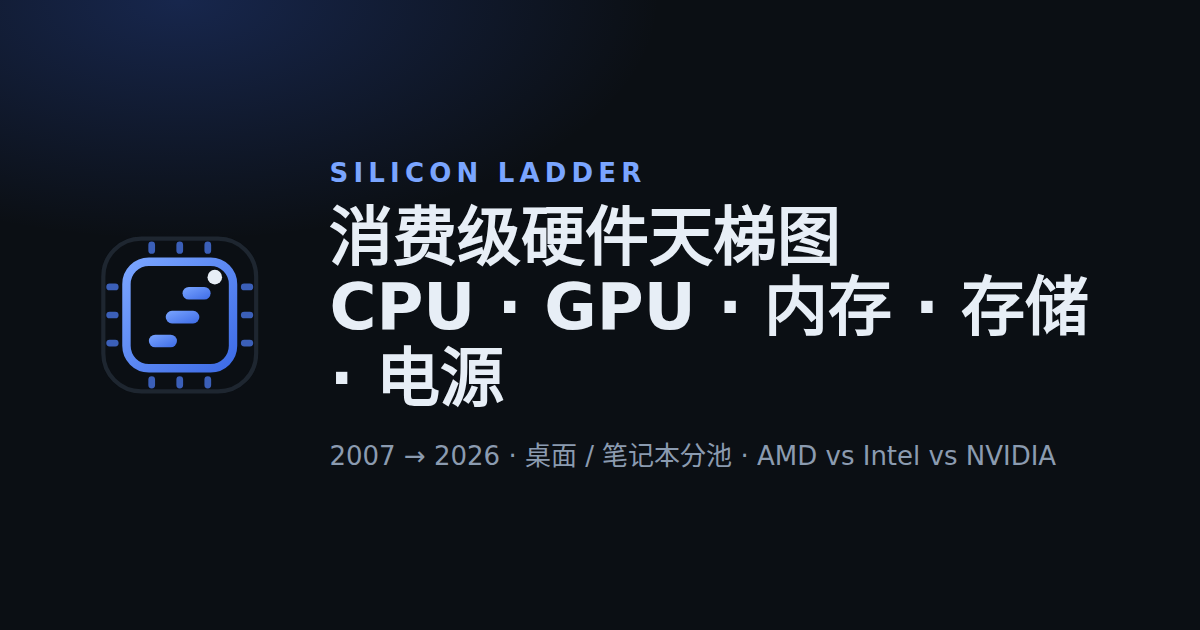
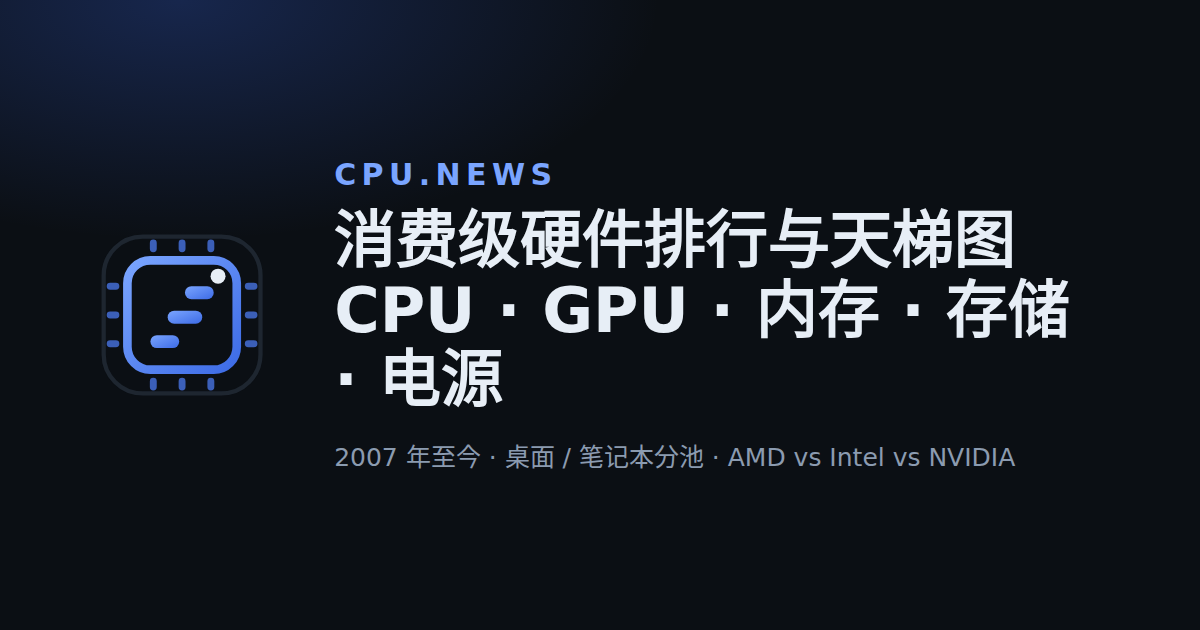
rebrand: 站点改名 CPU.News，域名 https://cpu.news——站名三语/标题/manifest/页脚版权、SITE_URL/canonical/hreflang/sitemap/JSON-LD、预渲染标题、OG 图站名与域名全部更新
Claude-Session: https://claude.ai/code/session_011fBAaapBiQcBJAXxYjUTg1

diff --git a/hardware-rank/src/i18n/ja.ts b/hardware-rank/src/i18n/ja.ts
@@ -1,6 +1,6 @@
 import type { Msg } from './index'
 export const ja: Msg = {
-  site: { name: 'Silicon Ladder', tagline: 'コンシューマー向けハードウェアランキング', sub: '性能ラダー · ランキング · 比較' },
+  site: { name: 'CPU.News', tagline: 'コンシューマー向けハードウェアランキング', sub: '性能ラダー · ランキング · 比較' },
   nav: { cpu: 'CPU', gpu: 'GPU', ram: 'メモリ', storage: 'ストレージ', psu: '電源', compare: '比較', guide: '購入ガイド', methodology: '評価方法', menu: 'メニュー' },
   theme: { light: 'ライト', dark: 'ダーク', toggle: 'テーマ切替' },
   cat: { cpu: 'CPU', gpu: 'GPU', ram: 'メモリ', storage: 'ストレージ', psu: '電源' },
@@ -76,12 +76,12 @@ export const ja: Msg = {
     h6: '免責事項', p6: '静的スナップショットです。スコアは相対順位用で購入助言ではありません。ノートとデスクトップは別プールで比較不可。同名GPUはTGPで20–40%差があります。',
   },
   lang: '言語',
-  footerx: { blog: '作者ブログ', about: 'Silicon Ladder はコンシューマー向けハードウェアの静的ランキング／ラダーサイトです。CPU・GPU・メモリ・ストレージ・電源をフォームファクタ別にプール分けし、AMD / Intel / NVIDIA を左右対照。スコアはすべて公開レビューに遡れます。', rankings: 'ランキング', ladders: 'ラダー', tools: 'ツールと説明', resources: 'リソース', desktop: 'デスクトップ', laptop: 'ノート', igpu: '内蔵GPU', github: 'GitHub ソース', data: 'データファイル (JSON)', sitemap: 'サイトマップ', dataVersion: 'データ版', copyright: '© {y} Silicon Ladder · ブランド名・商標は各社に帰属します', noAffiliation: 'AMD、Intel、NVIDIA、Apple 等のメーカーとは無関係。広告なし。ストアリンクは検索ページで、アフィリエイトタグを含む場合があります。' },
+  footerx: { blog: '作者ブログ', about: 'CPU.News はコンシューマー向けハードウェアの静的ランキング／ラダーサイトです。CPU・GPU・メモリ・ストレージ・電源をフォームファクタ別にプール分けし、AMD / Intel / NVIDIA を左右対照。スコアはすべて公開レビューに遡れます。', rankings: 'ランキング', ladders: 'ラダー', tools: 'ツールと説明', resources: 'リソース', desktop: 'デスクトップ', laptop: 'ノート', igpu: '内蔵GPU', github: 'GitHub ソース', data: 'データファイル (JSON)', sitemap: 'サイトマップ', dataVersion: 'データ版', copyright: '© {y} CPU.News · ブランド名・商標は各社に帰属します', noAffiliation: 'AMD、Intel、NVIDIA、Apple 等のメーカーとは無関係。広告なし。ストアリンクは検索ページで、アフィリエイトタグを含む場合があります。' },
   search: { title: 'サイト内検索', ph: 'モデル / ブランド 例: 9800X3D, RTX 5070, 990 PRO', hint: '↑↓ 選択 · Enter 開く · Esc 閉じる', empty: '該当する製品がありません', shortcut: '検索' },
   chips: { active: '選択中', clear: 'すべてクリア', era: '年代', tdp: 'TDP', watt: 'W数', q: 'キーワード' },
   rel: { rivals: '直接の競合', rivalsDesc: '同プール・同時期（±1年）・総合スコアが近い他ブランド', lineage: '同シリーズの前後世代', prev: '前世代', next: '次世代', vsFirst: '1列目との差', same: '同じ', diff: '異なる' },
   tags: { X3D: 'X3D', 游戏: 'ゲーム', 旗舰: 'フラッグシップ', 生产力: '生産性', 性价比: 'コスパ', 能效: '高効率', ARM: 'ARM', 核显: '内蔵GPU', 轻薄: '薄型', 全能本: '汎用ノート', 游戏本: 'ゲーミングノート', AM4: 'AM4', 经典: '定番', 历史: '旧世代', HEDT: 'HEDT', APU: 'APU', '4K': '4K', '2K': 'WQHD', 高TGP: '高TGP', 中TGP: '中TGP', 低TGP: '低TGP', '1080p': '1080p', PCIe5: 'PCIe 5.0', 国产: '中国製', 入门: '入門', SATA: 'SATA', NAS: 'NAS', CMR: 'CMR', QLC: 'QLC', 企业: 'エンタープライズ', SMR: 'SMR' },
-  exportImg: { btn: '画像を書き出し', busy: '生成中…', footer: '出典 silicon-ladder.vercel.app · 相対スコア、プール最高 100' },
+  exportImg: { btn: '画像を書き出し', busy: '生成中…', footer: '出典 cpu.news · 相対スコア、プール最高 100' },
   tech: { na: '未公開 / 該当なし', title: '技術仕様', note: 'アーキテクチャ情報は世代から導出、製品情報は公開仕様から整理。不明は空欄。', gArch: 'アーキテクチャとプロセス', gCores: 'コアとキャッシュ', gClock: 'クロックと電力', gMem: 'メモリと I/O', gIgpu: '内蔵GPU', gUnits: '演算ユニット', gMemG: 'メモリ', gPerf: '理論性能', gPrice: '発売価格',
     cores: 'コアマイクロアーキテクチャ', process: 'プロセス', design: 'チップ設計', die: 'ダイ構成', die_mm2: 'ダイ面積', transistors: 'トランジスタ数', l1: 'L1（コアあたり）', l2: 'L2（合計）', l3: 'L3', isa: '命令セット拡張', smt: 'マルチスレッド', base: 'ベースクロック', boost: 'ブーストクロック', tdp: 'TDP', pmax: '最大電力', memc: 'メモリコントローラ', memmax: '最大容量', pcie: 'PCIe', igpu: '内蔵GPU', igpuCu: '内蔵GPU ユニット', igpuClk: '内蔵GPU クロック', usd: '発売価格 (USD)',
     units: '演算ユニット', shaders: 'シェーダ', tmus: 'TMU', rops: 'ROP', rt: 'RT コア', tensor: 'AI / Tensor', rtGen: 'RT ユニット世代', aiGen: 'AI ユニット世代', baseClk: 'ベースクロック', boostClk: 'ブーストクロック', vram: 'VRAM', bus: 'バス幅', gbps: 'メモリ速度', bw: 'メモリ帯域', l2g: 'L2', ic: 'Infinity Cache', tbp: 'TBP / TGP', tflops: 'FP32 演算性能', perW: 'ワットあたり性能', density: 'トランジスタ密度', shPerUnit: 'ユニットあたりシェーダ' },

diff --git a/hardware-rank/src/i18n/en.ts b/hardware-rank/src/i18n/en.ts
@@ -1,6 +1,6 @@
 import type { Msg } from './index'
 export const en: Msg = {
-  site: { name: 'Silicon Ladder', tagline: 'Consumer Hardware Rankings', sub: 'Ladder · Rankings · Compare' },
+  site: { name: 'CPU.News', tagline: 'Consumer Hardware Rankings', sub: 'Ladder · Rankings · Compare' },
   nav: { cpu: 'CPU', gpu: 'GPU', ram: 'Memory', storage: 'Storage', psu: 'PSU', compare: 'Compare', guide: 'Buying Guide', methodology: 'Methodology', menu: 'Menu' },
   theme: { light: 'Light', dark: 'Dark', toggle: 'Toggle theme' },
   cat: { cpu: 'CPU', gpu: 'GPU', ram: 'Memory', storage: 'Storage', psu: 'PSU' },
@@ -76,12 +76,12 @@ export const en: Msg = {
     h6: 'Disclaimer', p6: 'Static snapshot; scores are for relative ranking and are not purchase advice. Laptop and desktop are separate pools; same-name GPUs differ by 20–40% with TGP.',
   },
   lang: 'Language',
-  footerx: { blog: 'Author blog', about: 'Silicon Ladder is a fully static ranking and ladder site for consumer hardware: CPU, GPU, memory, storage and PSU pooled by form factor, AMD / Intel / NVIDIA side by side, every score traceable to public reviews.', rankings: 'Rankings', ladders: 'Ladders', tools: 'Tools & docs', resources: 'Resources', desktop: 'Desktop', laptop: 'Laptop', igpu: 'iGPU', github: 'Source on GitHub', data: 'Data files (JSON)', sitemap: 'Sitemap', dataVersion: 'Data version', copyright: '© {y} Silicon Ladder · Brand names and trademarks belong to their respective owners', noAffiliation: 'Not affiliated with AMD, Intel, NVIDIA, Apple or any vendor. No ads; store links go to search pages and may carry affiliate tags.' },
+  footerx: { blog: 'Author blog', about: 'CPU.News is a fully static ranking and ladder site for consumer hardware: CPU, GPU, memory, storage and PSU pooled by form factor, AMD / Intel / NVIDIA side by side, every score traceable to public reviews.', rankings: 'Rankings', ladders: 'Ladders', tools: 'Tools & docs', resources: 'Resources', desktop: 'Desktop', laptop: 'Laptop', igpu: 'iGPU', github: 'Source on GitHub', data: 'Data files (JSON)', sitemap: 'Sitemap', dataVersion: 'Data version', copyright: '© {y} CPU.News · Brand names and trademarks belong to their respective owners', noAffiliation: 'Not affiliated with AMD, Intel, NVIDIA, Apple or any vendor. No ads; store links go to search pages and may carry affiliate tags.' },
   search: { title: 'Search everything', ph: 'Model or brand, e.g. 9800X3D, RTX 5070, 990 PRO', hint: '↑↓ select · Enter open · Esc close', empty: 'No matching products', shortcut: 'Search' },
   chips: { active: 'Active', clear: 'Clear all', era: 'Era', tdp: 'TDP', watt: 'Watts', q: 'Keyword' },
   rel: { rivals: 'Direct rivals', rivalsDesc: 'Same pool, same era (±1 yr), similar overall score, other brands', lineage: 'Same line, previous / next', prev: 'Previous', next: 'Next', vsFirst: 'vs. first column', same: 'same', diff: 'differs' },
   tags: { X3D: 'X3D', 游戏: 'Gaming', 旗舰: 'Flagship', 生产力: 'Productivity', 性价比: 'Value', 能效: 'Efficient', ARM: 'ARM', 核显: 'iGPU', 轻薄: 'Thin & light', 全能本: 'All-rounder', 游戏本: 'Gaming laptop', AM4: 'AM4', 经典: 'Classic', 历史: 'Legacy', HEDT: 'HEDT', APU: 'APU', '4K': '4K', '2K': '1440p', 高TGP: 'High TGP', 中TGP: 'Mid TGP', 低TGP: 'Low TGP', '1080p': '1080p', PCIe5: 'PCIe 5.0', 国产: 'China-made', 入门: 'Entry', SATA: 'SATA', NAS: 'NAS', CMR: 'CMR', QLC: 'QLC', 企业: 'Enterprise', SMR: 'SMR' },
-  exportImg: { btn: 'Export image', busy: 'Rendering…', footer: 'Source silicon-ladder.vercel.app · relative score, pool best = 100' },
+  exportImg: { btn: 'Export image', busy: 'Rendering…', footer: 'Source cpu.news · relative score, pool best = 100' },
   tech: { na: 'Not disclosed / N/A', title: 'Technical specifications', note: 'Architecture-level facts derived per generation; product-level data compiled from public specs; unknown left blank.', gArch: 'Architecture & process', gCores: 'Cores & cache', gClock: 'Clocks & power', gMem: 'Memory & I/O', gIgpu: 'iGPU', gUnits: 'Compute units', gMemG: 'Memory', gPerf: 'Theoretical performance', gPrice: 'Launch price',
     cores: 'Core microarchitecture', process: 'Process', design: 'Chip design', die: 'Die layout', die_mm2: 'Die area', transistors: 'Transistors', l1: 'L1 cache (per core)', l2: 'L2 cache (total)', l3: 'L3 cache', isa: 'ISA extensions', smt: 'Multithreading', base: 'Base clock', boost: 'Boost clock', tdp: 'TDP', pmax: 'Max power', memc: 'Memory controller', memmax: 'Max capacity', pcie: 'PCIe', igpu: 'iGPU', igpuCu: 'iGPU units', igpuClk: 'iGPU clock', usd: 'Launch price (USD)',
     units: 'Compute units', shaders: 'Shaders', tmus: 'TMUs', rops: 'ROPs', rt: 'RT cores', tensor: 'AI / Tensor', rtGen: 'RT unit generation', aiGen: 'AI unit generation', baseClk: 'Base clock', boostClk: 'Boost clock', vram: 'VRAM', bus: 'Bus width', gbps: 'Memory speed', bw: 'Memory bandwidth', l2g: 'L2 cache', ic: 'Infinity Cache', tbp: 'TBP / TGP', tflops: 'FP32 compute', perW: 'Compute per watt', density: 'Transistor density', shPerUnit: 'Shaders per unit' },

diff --git a/hardware-rank/src/i18n/zh.ts b/hardware-rank/src/i18n/zh.ts
@@ -1,5 +1,5 @@
 export const zh = {
-  site: { name: 'Silicon Ladder', tagline: '消费级硬件排行榜', sub: '天梯图 · 排行 · 对比' },
+  site: { name: 'CPU.News', tagline: '消费级硬件排行榜', sub: '天梯图 · 排行 · 对比' },
   nav: { cpu: 'CPU', gpu: 'GPU', ram: '内存', storage: '存储', psu: '电源', compare: '对比', guide: '选购指南', methodology: '方法论', menu: '菜单' },
   theme: { light: '明亮', dark: '深色', toggle: '切换主题' },
   cat: { cpu: 'CPU', gpu: 'GPU', ram: '内存', storage: '存储', psu: '电源' },
@@ -75,12 +75,12 @@ export const zh = {
     h6: '免责声明', p6: '数据为静态快照，分数用于相对排序，不构成购买建议。笔记本与桌面分数按形态分池，不可直接比较；同名 GPU 会因 TGP 不同出现 20–40% 差距。',
   },
   lang: '语言',
-  footerx: { blog: '作者博客', about: 'Silicon Ladder 是一个纯静态的消费级硬件排行与天梯站：CPU、GPU、内存、存储、电源按形态分池归一，AMD / Intel / NVIDIA 并列对照，分数可追溯到公开评测。', rankings: '排行榜', ladders: '天梯图', tools: '工具与说明', resources: '资源', desktop: '桌面', laptop: '笔记本', igpu: '核显', github: 'GitHub 源码', data: '数据文件 (JSON)', sitemap: '站点地图', dataVersion: '数据版本', copyright: '© {y} Silicon Ladder · 站内品牌名称与商标归各自所有者所有', noAffiliation: '与 AMD、Intel、NVIDIA、Apple 等厂商无关联；无广告，商城链接为搜索页，可能含联盟标签。' },
+  footerx: { blog: '作者博客', about: 'CPU.News 是一个纯静态的消费级硬件排行与天梯站：CPU、GPU、内存、存储、电源按形态分池归一，AMD / Intel / NVIDIA 并列对照，分数可追溯到公开评测。', rankings: '排行榜', ladders: '天梯图', tools: '工具与说明', resources: '资源', desktop: '桌面', laptop: '笔记本', igpu: '核显', github: 'GitHub 源码', data: '数据文件 (JSON)', sitemap: '站点地图', dataVersion: '数据版本', copyright: '© {y} CPU.News · 站内品牌名称与商标归各自所有者所有', noAffiliation: '与 AMD、Intel、NVIDIA、Apple 等厂商无关联；无广告，商城链接为搜索页，可能含联盟标签。' },
   search: { title: '全站搜索', ph: '输入型号 / 品牌，如 9800X3D、RTX 5070、990 PRO', hint: '↑↓ 选择 · Enter 打开 · Esc 关闭', empty: '没有匹配的产品', shortcut: '搜索' },
   chips: { active: '已选', clear: '全部清除', era: '年代', tdp: 'TDP', watt: '瓦数', q: '关键词' },
   rel: { rivals: '直接竞品', rivalsDesc: '同池、同期（±1 年）、综合分接近的其他品牌产品', lineage: '同系列前后代', prev: '上一代', next: '下一代', vsFirst: '较第一列', same: '相同', diff: '不同' },
   tags: { X3D: 'X3D', 游戏: '游戏', 旗舰: '旗舰', 生产力: '生产力', 性价比: '性价比', 能效: '能效', ARM: 'ARM', 核显: '核显', 轻薄: '轻薄', 全能本: '全能本', 游戏本: '游戏本', AM4: 'AM4', 经典: '经典', 历史: '历史', HEDT: 'HEDT', APU: 'APU', '4K': '4K', '2K': '2K', 高TGP: '高 TGP', 中TGP: '中 TGP', 低TGP: '低 TGP', '1080p': '1080p', PCIe5: 'PCIe 5.0', 国产: '国产', 入门: '入门', SATA: 'SATA', NAS: 'NAS', CMR: 'CMR', QLC: 'QLC', 企业: '企业级', SMR: 'SMR' },
-  exportImg: { btn: '导出图片', busy: '生成中…', footer: '来源 silicon-ladder.vercel.app · 相对分，池内最高 100' },
+  exportImg: { btn: '导出图片', busy: '生成中…', footer: '来源 cpu.news · 相对分，池内最高 100' },
   tech: { na: '厂商未公开 / 不适用', title: '技术规格', note: '架构级信息按代次派生，产品级数据为公开规格整理；未知留空。', gArch: '架构与工艺', gCores: '核心与缓存', gClock: '时钟与功耗', gMem: '内存与 I/O', gIgpu: '核显', gUnits: '计算单元', gMemG: '显存', gPerf: '理论性能', gPrice: '首发价',
     cores: '核心微架构', process: '制程', design: '芯片设计', die: '晶片布局', die_mm2: '晶片面积', transistors: '晶体管', l1: 'L1 缓存（每核）', l2: 'L2 缓存（总）', l3: 'L3 缓存', isa: '指令集', smt: '多线程', base: '基础频率', boost: '加速频率', tdp: 'TDP', pmax: '最大功耗', memc: '内存控制器', memmax: '最大容量', pcie: 'PCIe', igpu: '核显', igpuCu: '核显单元', igpuClk: '核显频率', usd: '首发价 (USD)',
     units: '计算单元', shaders: '着色器', tmus: 'TMU', rops: 'ROP', rt: 'RT 核心', tensor: 'AI / Tensor', rtGen: 'RT 单元世代', aiGen: 'AI 单元世代', baseClk: '基础频率', boostClk: '加速频率', vram: '显存', bus: '位宽', gbps: '显存速率', bw: '显存带宽', l2g: 'L2 缓存', ic: 'Infinity Cache', tbp: 'TBP / TGP', tflops: 'FP32 算力', perW: '每瓦算力', density: '晶体管密度', shPerUnit: '每单元着色器' },

diff --git a/hardware-rank/index.html b/hardware-rank/index.html
@@ -3,21 +3,21 @@
   <head>
     <meta charset="UTF-8" />
     <meta name="viewport" content="width=device-width, initial-scale=1.0" />
-    <meta name="description" content="Silicon Ladder 消费级硬件天梯与排行榜：CPU / GPU / 内存 / 存储 / 电源，桌面与笔记本分池排名。" />
+    <meta name="description" content="CPU.News 消费级硬件天梯与排行榜：CPU / GPU / 内存 / 存储 / 电源，桌面与笔记本分池排名。" />
     <meta name="theme-color" content="#F5F7FB" />
     <link rel="icon" type="image/svg+xml" href="/favicon.svg" />
     <link rel="icon" type="image/png" sizes="32x32" href="/favicon-32.png" />
     <link rel="apple-touch-icon" href="/apple-touch-icon.png" />
     <link rel="manifest" href="/site.webmanifest" />
-    <meta property="og:title" content="Silicon Ladder — 消费级硬件排行榜" />
-    <meta property="og:image" content="https://silicon-ladder.vercel.app/og.png" />
+    <meta property="og:title" content="CPU.News — 消费级硬件排行榜" />
+    <meta property="og:image" content="https://cpu.news/og.png" />
     <meta property="og:type" content="website" />
-    <meta property="og:site_name" content="Silicon Ladder" />
+    <meta property="og:site_name" content="CPU.News" />
     <meta name="twitter:card" content="summary_large_image" />
-    <link rel="canonical" href="https://silicon-ladder.vercel.app/" />
+    <link rel="canonical" href="https://cpu.news/" />
     <meta name="robots" content="index, follow" />
     <meta name="keywords" content="CPU天梯图, 显卡天梯图, GPU天梯图, 硬件排行, 笔记本CPU排行, 笔记本显卡排行, 内存排行, SSD排行, 电源分级, CPU ladder, GPU ladder, hardware ranking" />
-    <title>Silicon Ladder — 消费级硬件排行榜</title>
+    <title>CPU.News — 消费级硬件排行榜</title>
   </head>
   <body>
     <div id="app"></div>

diff --git a/hardware-rank/src/components/LadderView.vue b/hardware-rank/src/components/LadderView.vue
@@ -89,7 +89,7 @@ const gridCols = computed(() => mirror.value ? '1fr 64px 1fr' : `56px repeat(${b
     <div class="hidden md:block">
       <div ref="exportEl">
         <div class="hidden export-only px-4 py-3 border-b border-line items-center gap-3">
-          <span class="font-bold">Silicon Ladder</span><span class="text-muted text-sm">{{ formLabel(rows[0]?.item.form ?? '') }} {{ catLabel(category) }} · {{ sortLabel }}</span>
+          <span class="font-bold">CPU.News</span><span class="text-muted text-sm">{{ formLabel(rows[0]?.item.form ?? '') }} {{ catLabel(category) }} · {{ sortLabel }}</span>
         </div>
         <!-- 品牌表头 -->
         <div class="grid border-b border-line bg-card2" :style="{ gridTemplateColumns: gridCols }">

diff --git a/hardware-rank/src/components/AppLogo.vue b/hardware-rank/src/components/AppLogo.vue
@@ -3,7 +3,7 @@ withDefaults(defineProps<{ size?: number }>(), { size: 28 })
 </script>
 
 <template>
-  <svg :width="size" :height="size" viewBox="0 0 64 64" role="img" aria-label="Silicon Ladder" class="shrink-0">
+  <svg :width="size" :height="size" viewBox="0 0 64 64" role="img" aria-label="CPU.News" class="shrink-0">
     <defs>
       <linearGradient id="sl-g" x1="0" y1="0" x2="1" y2="1">
         <stop offset="0" stop-color="#7AA5FF" />

diff --git a/hardware-rank/src/seo.ts b/hardware-rank/src/seo.ts
@@ -1,8 +1,8 @@
 import { watchEffect, onUnmounted, type Ref } from 'vue'
 import { locale, localizePath, stripLocale } from '@/i18n'
 
-export const SITE_URL = 'https://silicon-ladder.vercel.app'
-export const SITE_NAME = 'Silicon Ladder'
+export const SITE_URL = 'https://cpu.news'
+export const SITE_NAME = 'CPU.News'
 
 export interface SeoInput {
   title: string

diff --git a/hardware-rank/README.md b/hardware-rank/README.md
@@ -1,4 +1,4 @@
-# Silicon Ladder — 消费级硬件排行榜 / 天梯图
+# CPU.News — 消费级硬件排行榜 / 天梯图
 
 纯前端静态站点：CPU / GPU / 内存 / 存储 / 电源排行、天梯图与对比。收录 2007–2026 年 660+ 条硬件（CPU 263 · GPU 271 · 内存 36 · 存储 49 · 电源 45）。桌面、笔记本、核显强制分池；综合分可切换为单核 / 多核 / 游戏 / 能效 / 性价比；电源按品质 Tier 分档而非跑分。
 

diff --git a/README.md b/README.md
@@ -1,6 +1,6 @@
 # silicon-ladder
 
-消费级硬件排行榜（Silicon Ladder）。项目代码在 [`silicon-ladder/`](./silicon-ladder)。
+消费级硬件排行榜（CPU.News）。项目代码在 [`silicon-ladder/`](./silicon-ladder)。
 
 ```bash
 cd hardware-rank
